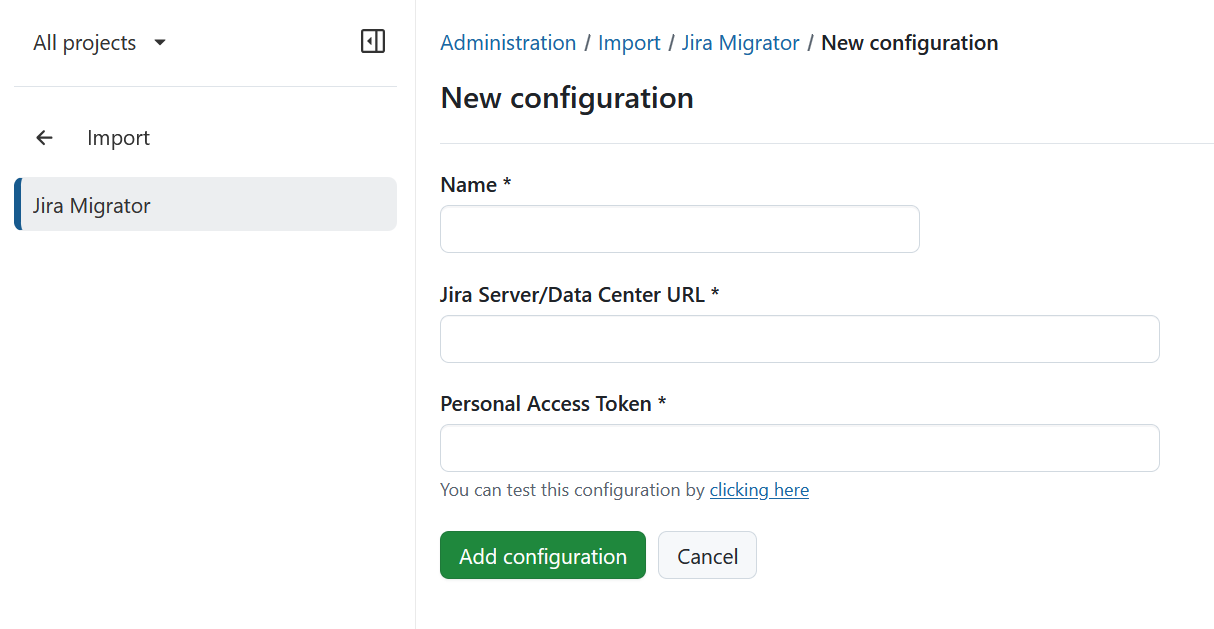
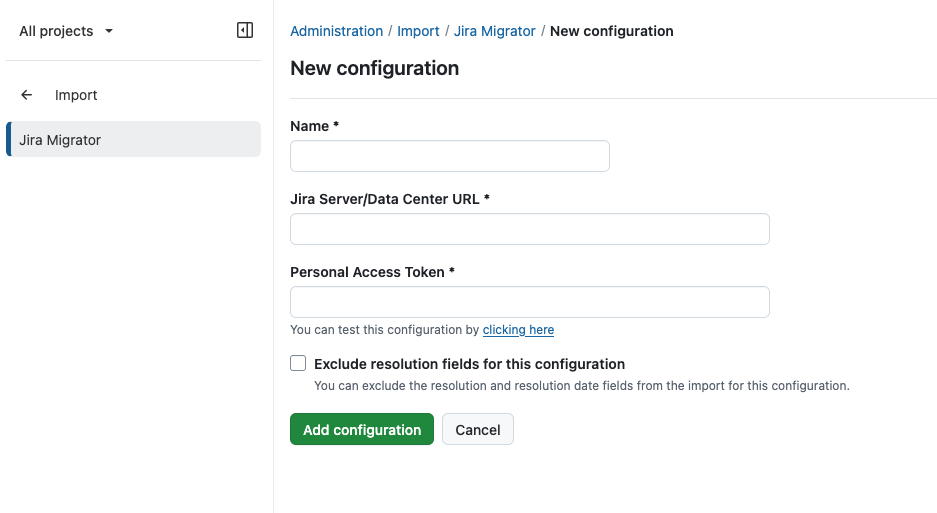
Update docs

diff --git a/docs/installation-and-operations/jira-migration/field-mapping/README.md b/docs/installation-and-operations/jira-migration/field-mapping/README.md
@@ -43,8 +43,8 @@ Every migrated project is created **private** and **active**, with no parent —
 | Priority                                           | Priority                  | Matched by name (not case-sensitive); created automatically if missing. If an issue has no priority in Jira, OpenProject's default priority is used. Only the name comes across — Jira's severity order, colors, and icons aren't preserved, and this matters beyond appearance: OpenProject falls back to whichever priority ends up first in the list when an issue has none set |
 | Remaining time estimate                            | Remaining work            | -                                                            |
 | Reporter                                           | **Not migrated**          | Jira's "Reporter" concept doesn't exist in OpenProject and is dropped; only Creator becomes Author |
-| Resolution                                         | (Appended to status)      | Jira tracks *why* an issue was closed (Fixed, Won't Fix, Duplicate, Cannot Reproduce) separately from its workflow state (Status). The "Resolution" concept does not exist in OpenProject. Each resolution value is mapped to a dedicated status, where the name is a combination of Status and Resolution (e.g. "Done - Fixed"); broader native support is tracked as [FND-231](https://community.openproject.org/projects/FND/work_packages/FND-231) |
-| Resolution date                                    | Resolution Date           | Imported as a *datetime* custom field, when any issue in the project has a resolution date set. It is displayed in the "Jira Import" section of each work package. |
+| Resolution                                         | (Appended to status)      | Jira tracks *why* an issue was closed (Fixed, Won't Fix, Duplicate, Cannot Reproduce) separately from its workflow state (Status). The "Resolution" concept does not exist in OpenProject. Each resolution value is mapped to a dedicated status, where the name is a combination of Status and Resolution (e.g. "Done - Fixed"). Can be turned off per import configuration, in which case only the status name is used. Broader native support is tracked as [FND-231](https://community.openproject.org/projects/FND/work_packages/FND-231). |
+| Resolution date                                    | Resolution Date           | Imported as a *datetime* custom field, when any issue in the project has a resolution date set. It is displayed in the "Jira Import" section of each work package. Can be turned off per import configuration. |
 | Security Level                                     | **Not migrated**          | —                                                            |
 | Status                                             | Status                    | Matched by name (not case-sensitive); created automatically if missing. `is_closed` is set depending on Jira's status category ("Done" maps to a closed status in OpenProject) on first creation. Note that this only happens the *first* time a status with that name is created. If the same status name already exists (e.g. reused across projects with inconsistent status categories), it is reused and the existing `is_closed` value is kept. |
 | Sub-tasks / parent-child links                     | **Not migrated**          | — (planned: [JIM-75](https://community.openproject.org/projects/JIM/work_packages/JIM-75)) |

diff --git a/docs/installation-and-operations/jira-migration/pre-migration-checklist/README.md b/docs/installation-and-operations/jira-migration/pre-migration-checklist/README.md
@@ -65,6 +65,7 @@ For anything on this list your teams actually rely on, decide now how you'll han
 - [ ] For anything you decided to keep from the "what doesn't migrate" review above, export it separately now (e.g. via CSV) before you lose easy access to it.
 - [ ] **Note your Jira priority order (severity ranking) before migrating.** The migrator doesn't preserve priority order, colors, or icons — only the name. Since OpenProject falls back to whichever priority is first in the list when an issue has none set, you'll likely need to manually reorder priorities in OpenProject afterward to match your actual severity ranking.
 - [ ] **Note which issue type is the default per project, if that matters to you.** No migrated type is marked as default, regardless of what was default in Jira — you'll need to set this manually in OpenProject after migration.
+- [ ] **Decide whether to import Jira's resolution fields.** By default, the resolution is appended to the status name (e.g. "Done - Fixed"), which creates an additional status per status/resolution combination and the resulution date is imported as a custom field. If you don't need this, select **Exclude resolution fields for this configuration** in the import configuration to keep your status list lean.
 
 ## OpenProject-side prerequisites
 

diff --git a/docs/installation-and-operations/jira-migration/README.md b/docs/installation-and-operations/jira-migration/README.md
@@ -87,6 +87,8 @@ Provide the following details:
 - Your Jira URL
 - A Personal Access Token. The migration tool requires a token with admin permissions. Otherwise, you will get a 403 error during the import process.
 
+Optionally, select **Exclude resolution fields for this configuration** if you do not want to import Jira's resolution and resolution date. See [Field mapping](field-mapping/) for how these fields are imported otherwise.
+
 ### Test configuration
 
 Click **Test configuration** to verify the connection.
